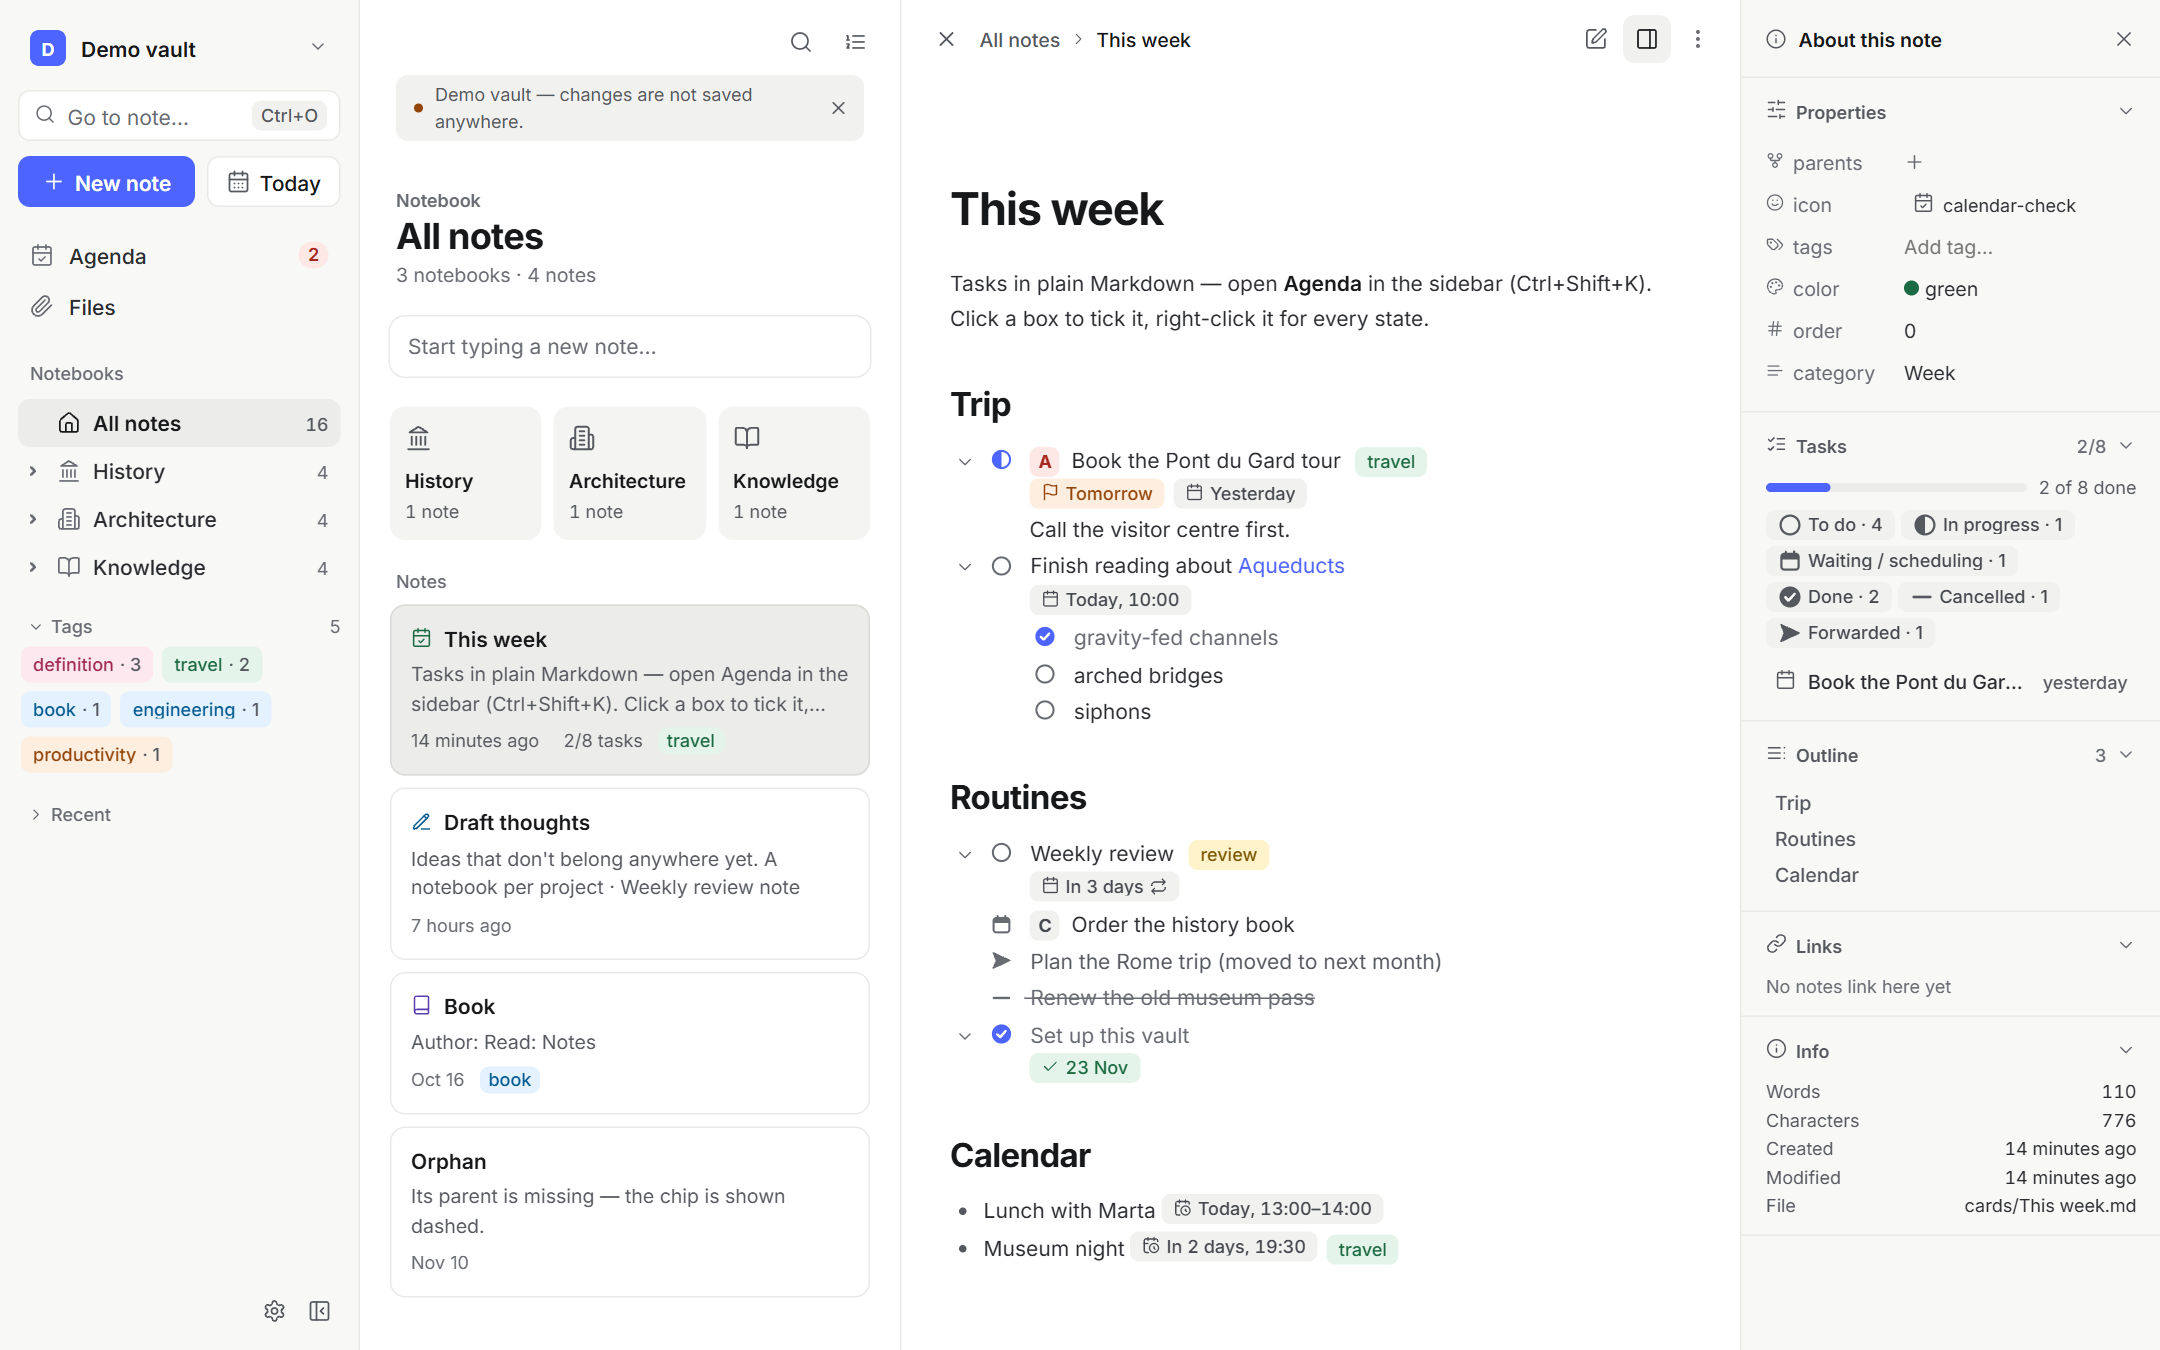
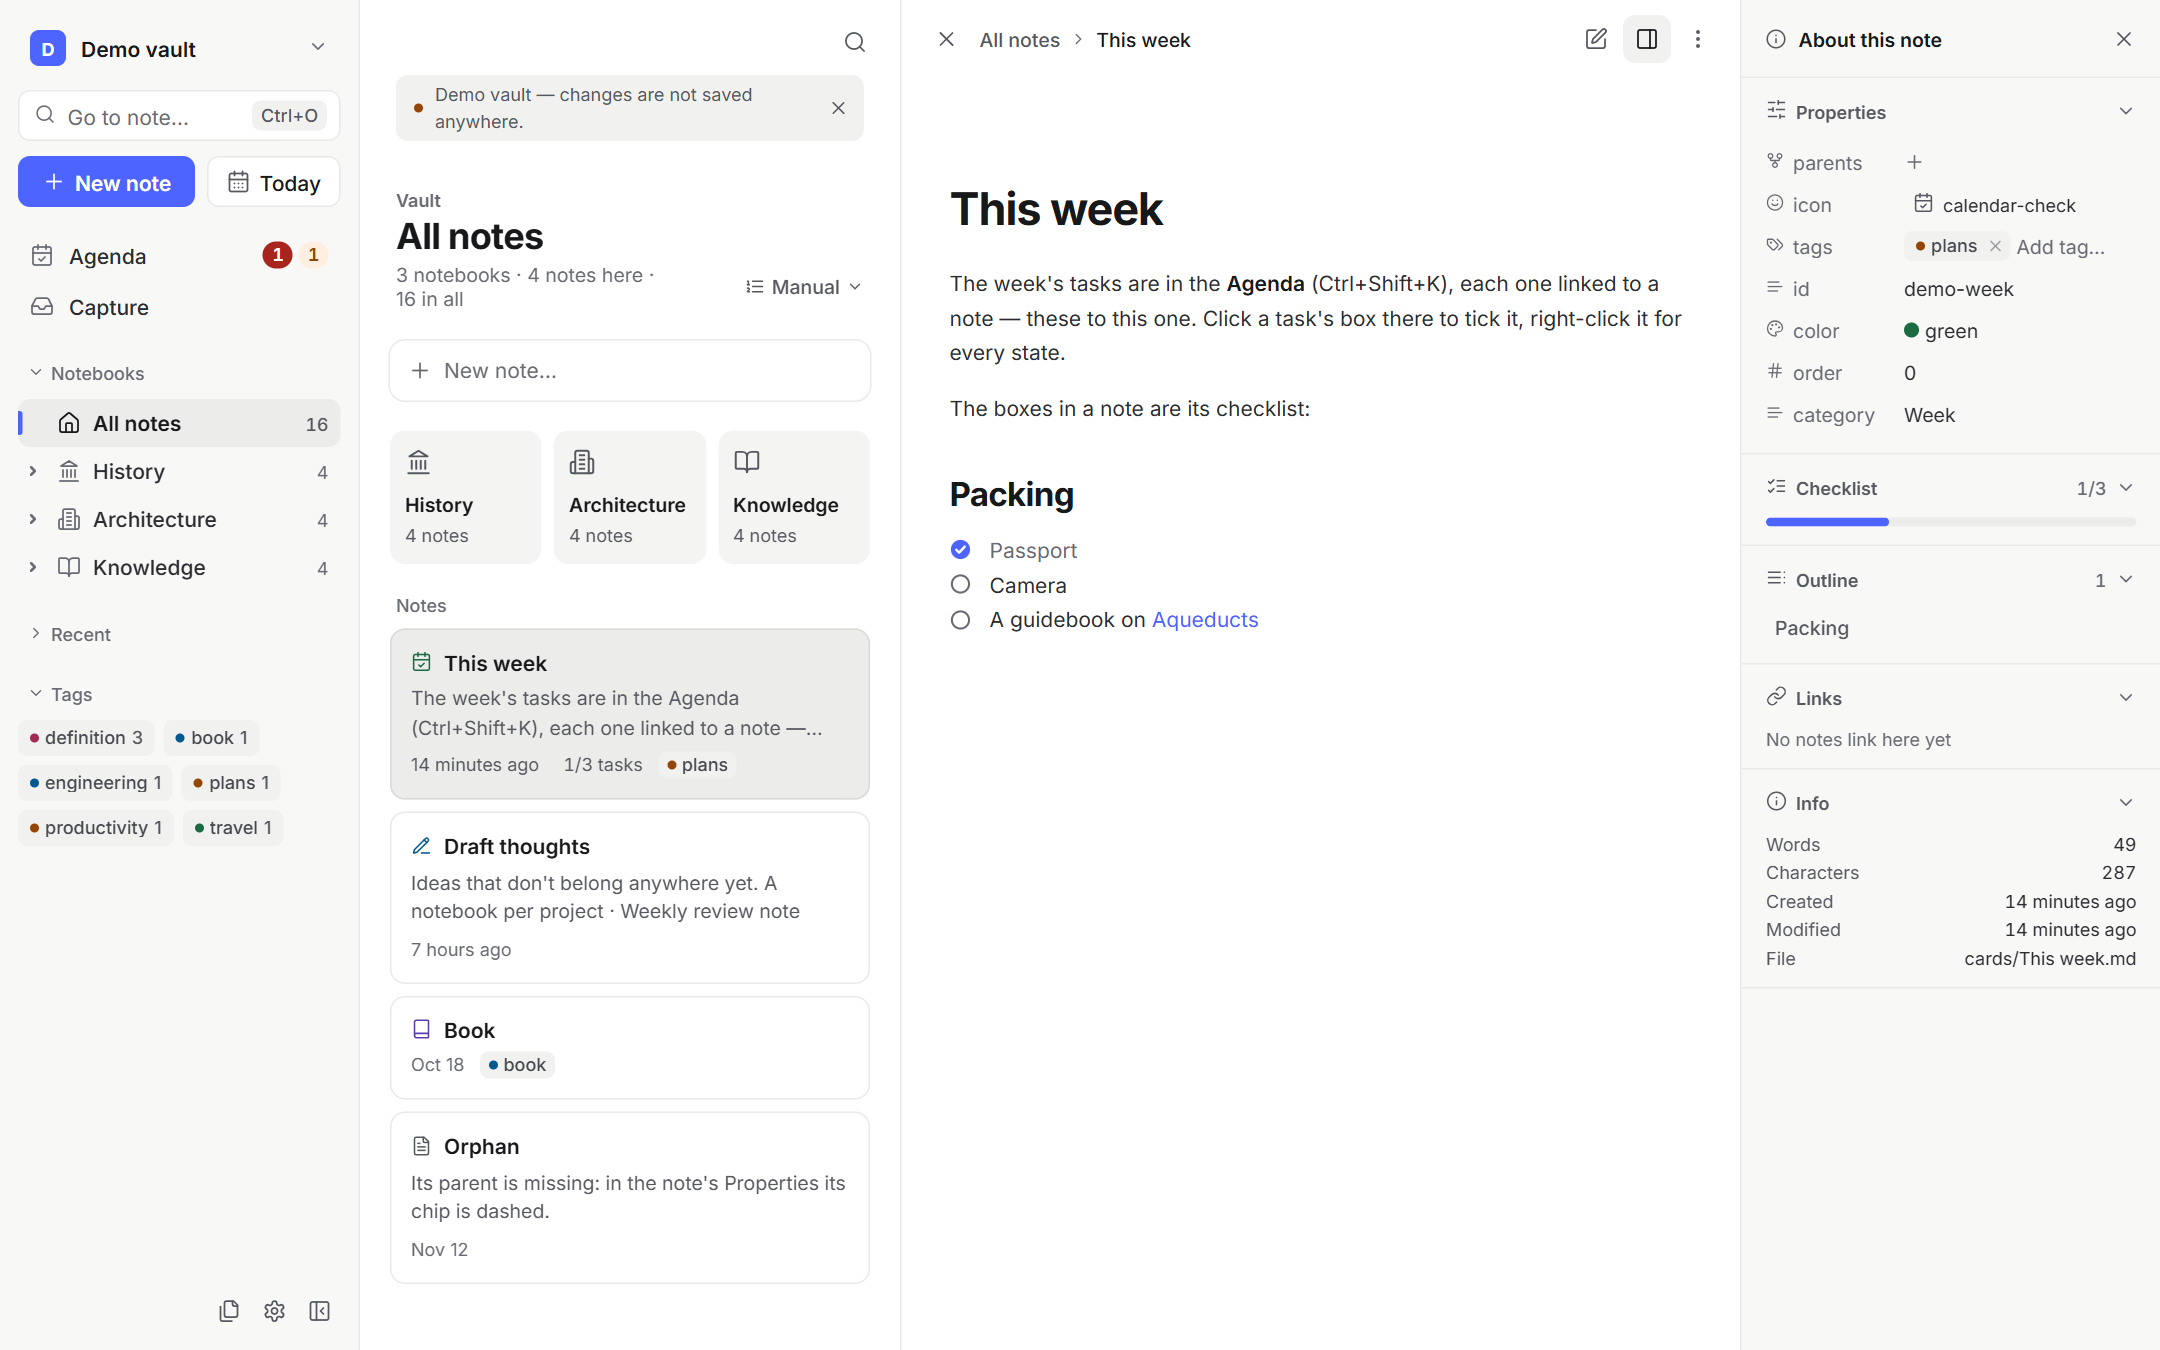
Refresh README screenshots for Supstack 0.46.0

diff --git a/README.md b/README.md
@@ -50,8 +50,8 @@ Supstack shows a folder of Markdown notes (a *vault*) as notebooks with a list o
 
 <table>
   <tr>
-    <td width="50%"><img src="docs/screenshots/editor.png" alt="A note being read: tasks with a priority letter and their dates as short chips"><br><sub><b>Reading.</b> A note opens to read: its tasks show a priority letter and their dates as the agenda says them.</sub></td>
-    <td width="50%"><img src="docs/screenshots/editor-editing.png" alt="The same note in the live preview editor, with the toolbar and the dates as written"><br><sub><b>Editing.</b> <i>Edit</i> (or a double click) opens the live preview editor, with the Markdown as written.</sub></td>
+    <td width="50%"><img src="docs/screenshots/editor.png" alt="A note in reading mode with a packing checklist and its progress in the side panel"><br><sub><b>Reading.</b> A note opens in reading mode, with its checklist progress in the side panel.</sub></td>
+    <td width="50%"><img src="docs/screenshots/editor-editing.png" alt="The same note in the live preview editor, with a formatting toolbar above the text"><br><sub><b>Editing.</b> <i>Edit</i> (or a double click) opens the live preview editor in place and shows the formatting toolbar.</sub></td>
   </tr>
   <tr>
     <td width="50%"><img src="docs/screenshots/board-dark.png" alt="The list of notes in the dark theme"><br><sub><b>Dark theme.</b> The same view, with light and dark themes following the system.</sub></td>
@@ -65,10 +65,10 @@ Supstack shows a folder of Markdown notes (a *vault*) as notebooks with a list o
 <p align="center">
   <img src="docs/screenshots/phone-board.png" alt="Supstack on a phone: the list of notes" width="260">
   &nbsp;&nbsp;
-  <img src="docs/screenshots/phone-editor.png" alt="Supstack on a phone: a note open over the list, with a back link to its notebook" width="260">
+  <img src="docs/screenshots/phone-editor.png" alt="Supstack on a phone: a full-screen note with a back arrow" width="260">
   &nbsp;&nbsp;
   <img src="docs/screenshots/phone-agenda.png" alt="Supstack on a phone: the week's agenda with its strip of days" width="260">
-  <br><sub><b>On Android.</b> A single-column layout with a bottom bar; a note opens full screen with <i>‹ its notebook</i> to go back; the agenda has the week as a strip of days.</sub>
+  <br><sub><b>On Android.</b> A single-column layout with a bottom bar, full-screen notes and a weekly agenda with a strip of days.</sub>
 </p>
 
 > Screenshots are taken from the built-in demo vault with `npm run screenshots`.
